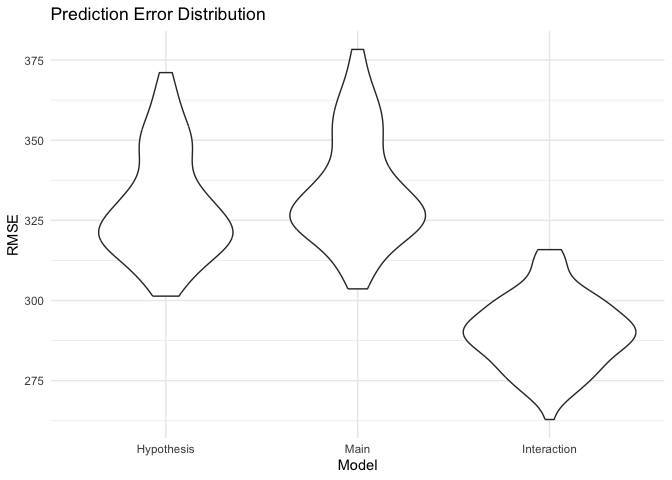
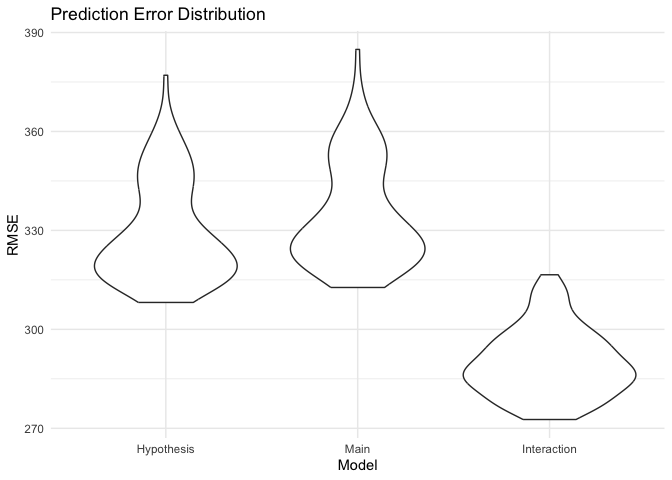
finishing question 3

diff --git a/p8105_hw6_leb2236.md b/p8105_hw6_leb2236.md
@@ -3,41 +3,6 @@ Homework 6
 Laura Bulmer
 12/2/2024
 
-Before starting on the problems, I’m setting up my libraries and options
-for visuals.
-
-``` r
-library(p8105.datasets)
-library(tidyverse)
-```
-
-    ## ── Attaching core tidyverse packages ──────────────────────── tidyverse 2.0.0 ──
-    ## ✔ dplyr     1.1.4     ✔ readr     2.1.5
-    ## ✔ forcats   1.0.0     ✔ stringr   1.5.1
-    ## ✔ ggplot2   3.5.1     ✔ tibble    3.2.1
-    ## ✔ lubridate 1.9.3     ✔ tidyr     1.3.1
-    ## ✔ purrr     1.0.2     
-    ## ── Conflicts ────────────────────────────────────────── tidyverse_conflicts() ──
-    ## ✖ dplyr::filter() masks stats::filter()
-    ## ✖ dplyr::lag()    masks stats::lag()
-    ## ℹ Use the conflicted package (<http://conflicted.r-lib.org/>) to force all conflicts to become errors
-
-``` r
-library(ggridges)
-library(patchwork)
-library(modelr)
-
-theme_set(theme_minimal() + theme(legend.position = "bottom"))
-
-options(
-  ggplot2.continuous.colour = "viridis",
-  ggplot2.continuous.fill = "viridis"
-)
-
-scale_colour_discrete = scale_colour_viridis_d
-scale_fill_discrete = scale_fill_viridis_d
-```
-
 ## Problem 1
 
 ``` r
@@ -66,19 +31,8 @@ weather_df =
 # Loading in the data. 
 
 homicides_raw= 
-  read_csv("data/homicide-data.csv")
-```
+  read_csv("data/homicide-data.csv",show_col_types = FALSE)
 
-    ## Rows: 52179 Columns: 12
-    ## ── Column specification ────────────────────────────────────────────────────────
-    ## Delimiter: ","
-    ## chr (9): uid, victim_last, victim_first, victim_race, victim_age, victim_sex...
-    ## dbl (3): reported_date, lat, lon
-    ## 
-    ## ℹ Use `spec()` to retrieve the full column specification for this data.
-    ## ℹ Specify the column types or set `show_col_types = FALSE` to quiet this message.
-
-``` r
 # Creating a city_state variable and solved binary variable, and filtering.
 
 homicides_df <- 
@@ -98,11 +52,6 @@ homicides_df <-
     victim_race %in% c("White", "Black")
     )
 ```
-
-    ## Warning: There was 1 warning in `mutate()`.
-    ## ℹ In argument: `victim_age = as.numeric(victim_age)`.
-    ## Caused by warning:
-    ## ! NAs introduced by coercion
 
 ``` r
 # Fitting the logistic regression model for Baltimore, MD.
@@ -135,15 +84,18 @@ victim_sex_odds_ratio = baltimore %>%
     conf_low = exp(conf.low),
     conf_high = exp(conf.high)
   ) %>%
-  select(term, odds_ratio, conf_low, conf_high)
+  select(term, odds_ratio, conf_low, conf_high) %>%
+  knitr::kable(digits=3)
 
 victim_sex_odds_ratio
 ```
 
-    ## # A tibble: 1 × 4
-    ##   term           odds_ratio conf_low conf_high
-    ##   <chr>               <dbl>    <dbl>     <dbl>
-    ## 1 victim_sexMale      0.426    0.324     0.558
+| term           | odds_ratio | conf_low | conf_high |
+|:---------------|-----------:|---------:|----------:|
+| victim_sexMale |      0.426 |    0.324 |     0.558 |
+
+The OR for solving homicides comparing men to women in Baltimore, MD is
+.426 with a CI of .324, .558.
 
 ``` r
 # Creating tidy pipeline to do the same for all cities.
@@ -167,19 +119,7 @@ all_city_results = homicides_df %>%
     conf_high = exp(conf.high)
   ) %>%
   select(term, odds_ratio, conf_low, conf_high)
-```
 
-    ## Warning: There were 44 warnings in `mutate()`.
-    ## The first warning was:
-    ## ℹ In argument: `results = map(model, ~broom::tidy(.x, conf.int = TRUE))`.
-    ## ℹ In group 1: `city_state = "Albuquerque, NM"`.
-    ## Caused by warning:
-    ## ! glm.fit: fitted probabilities numerically 0 or 1 occurred
-    ## ℹ Run `dplyr::last_dplyr_warnings()` to see the 43 remaining warnings.
-
-    ## Adding missing grouping variables: `city_state`
-
-``` r
 all_city_results
 ```
 
@@ -215,9 +155,16 @@ all_city_results%>%
   )
 ```
 
-![](p8105_hw6_leb2236_files/figure-gfm/unnamed-chunk-5-1.png)<!-- -->
+![](p8105_hw6_leb2236_files/figure-gfm/unnamed-chunk-6-1.png)<!-- -->
 
-ADD COMMENT HERE
+This plot gives us the OR and confidence intervals for solving homicides
+comparing male victims to female victims in cities throughout the US.
+Those with ORs higher than 1 indicate a higher odds of male homicides
+being solved compared to female. However, more of the cities reflect ORs
+lower than 1, indicating homicides are more likely to be solved for
+female victims. The highest OR is for Albuquerque, NM, which may be due
+to several things included a lower number of observations comparative to
+other cities.
 
 ## Problem 3
 
@@ -225,18 +172,8 @@ ADD COMMENT HERE
 # Loading the birthweight data.
 
 bwt_raw= 
-  read_csv("data/birthweight.csv")
-```
+  read_csv("data/birthweight.csv", show_col_types = FALSE)
 
-    ## Rows: 4342 Columns: 20
-    ## ── Column specification ────────────────────────────────────────────────────────
-    ## Delimiter: ","
-    ## dbl (20): babysex, bhead, blength, bwt, delwt, fincome, frace, gaweeks, malf...
-    ## 
-    ## ℹ Use `spec()` to retrieve the full column specification for this data.
-    ## ℹ Specify the column types or set `show_col_types = FALSE` to quiet this message.
-
-``` r
 # Checking for missing values.
 
 bwt_raw %>%
@@ -294,7 +231,9 @@ bwt_df %>%
 
     ## `geom_smooth()` using formula = 'y ~ x'
 
-![](p8105_hw6_leb2236_files/figure-gfm/unnamed-chunk-7-1.png)<!-- -->
+![](p8105_hw6_leb2236_files/figure-gfm/unnamed-chunk-8-1.png)<!-- -->
+
+Next we will compare the hypothesized model against two pre-set models.
 
 ``` r
 # Creating splits
@@ -335,7 +274,13 @@ cv_df |>
                    "alt1" = "Main", 
                    "alt2" = "Interaction")) |> 
   ggplot(aes(x = model, y = rmse)) + geom_violin()+
-    labs(x = "Model", y = "RMSE", title = "Prediction Error Distribution")
+    labs(x = "Model", y = "RMSE", title = "Prediction Error Distribution by Model")
 ```
 
-![](p8105_hw6_leb2236_files/figure-gfm/unnamed-chunk-9-1.png)<!-- -->
+![](p8105_hw6_leb2236_files/figure-gfm/unnamed-chunk-10-1.png)<!-- -->
+
+From the graph above, it appears that the interaction model showed the
+best prediction accuracy when compared to the interaction model and the
+hypothesized model. The hypothesized model performed just slightly
+better than the main simple model that solely included length at birth
+and gestational age as indicators.
